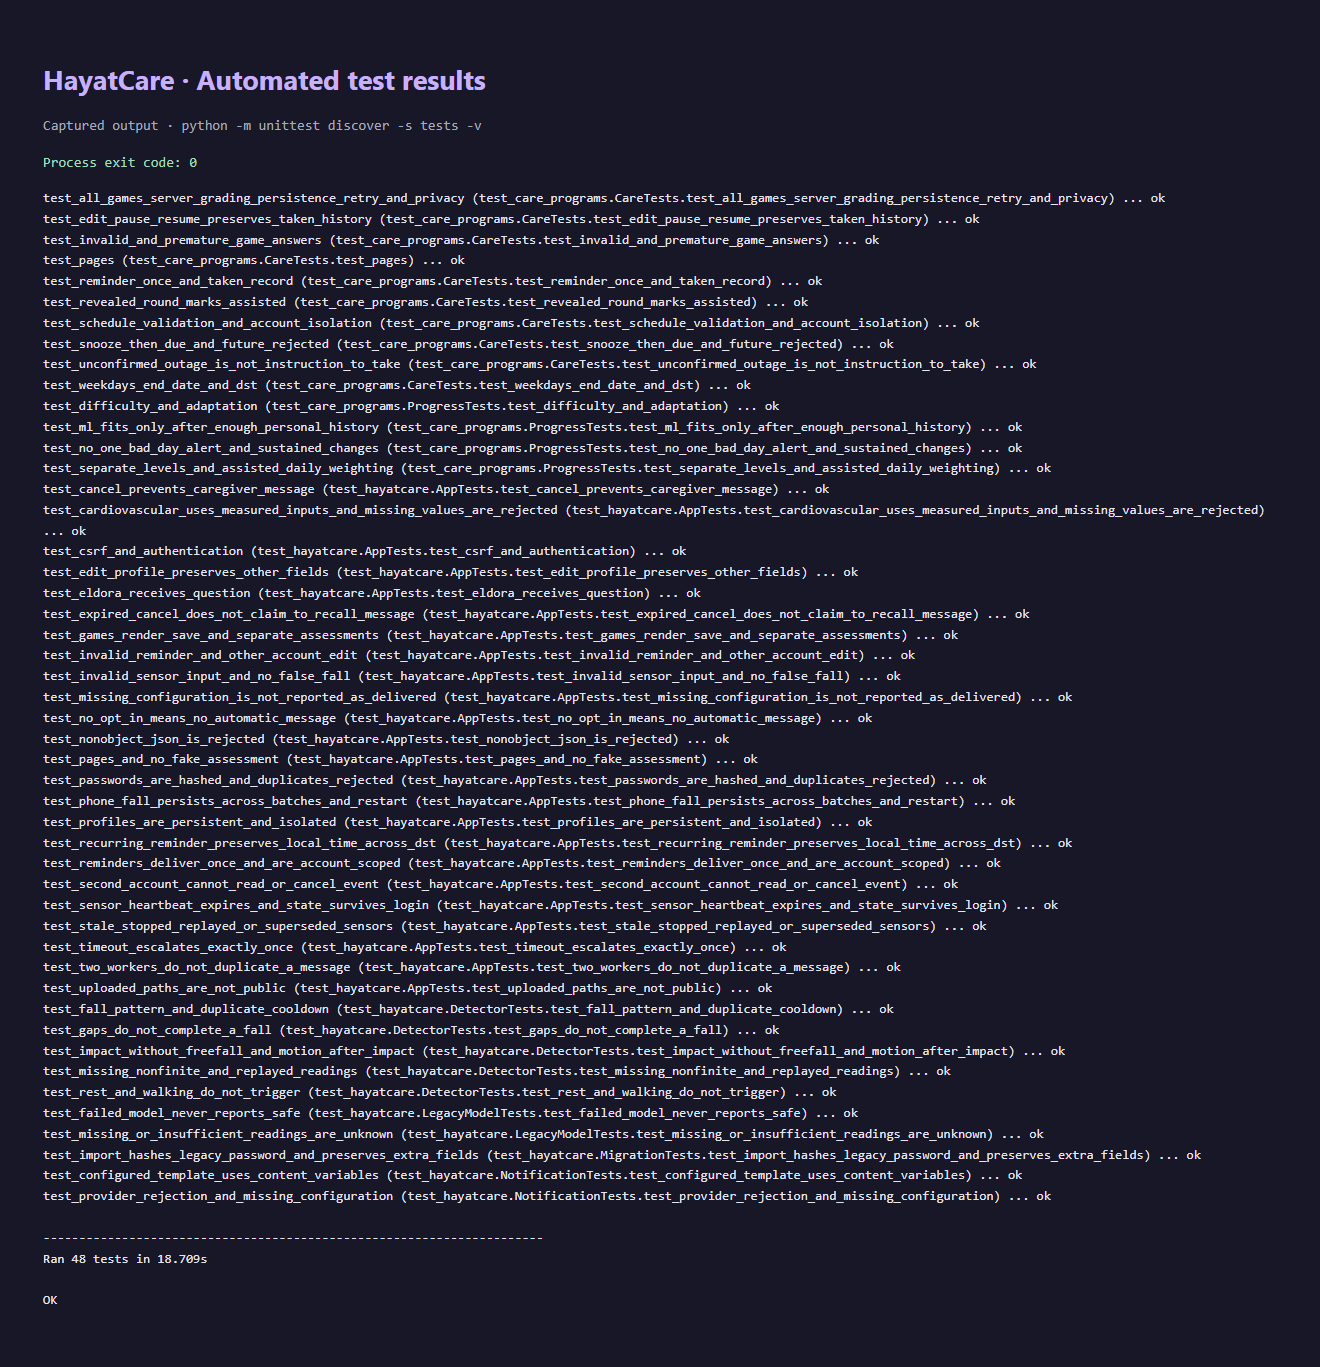
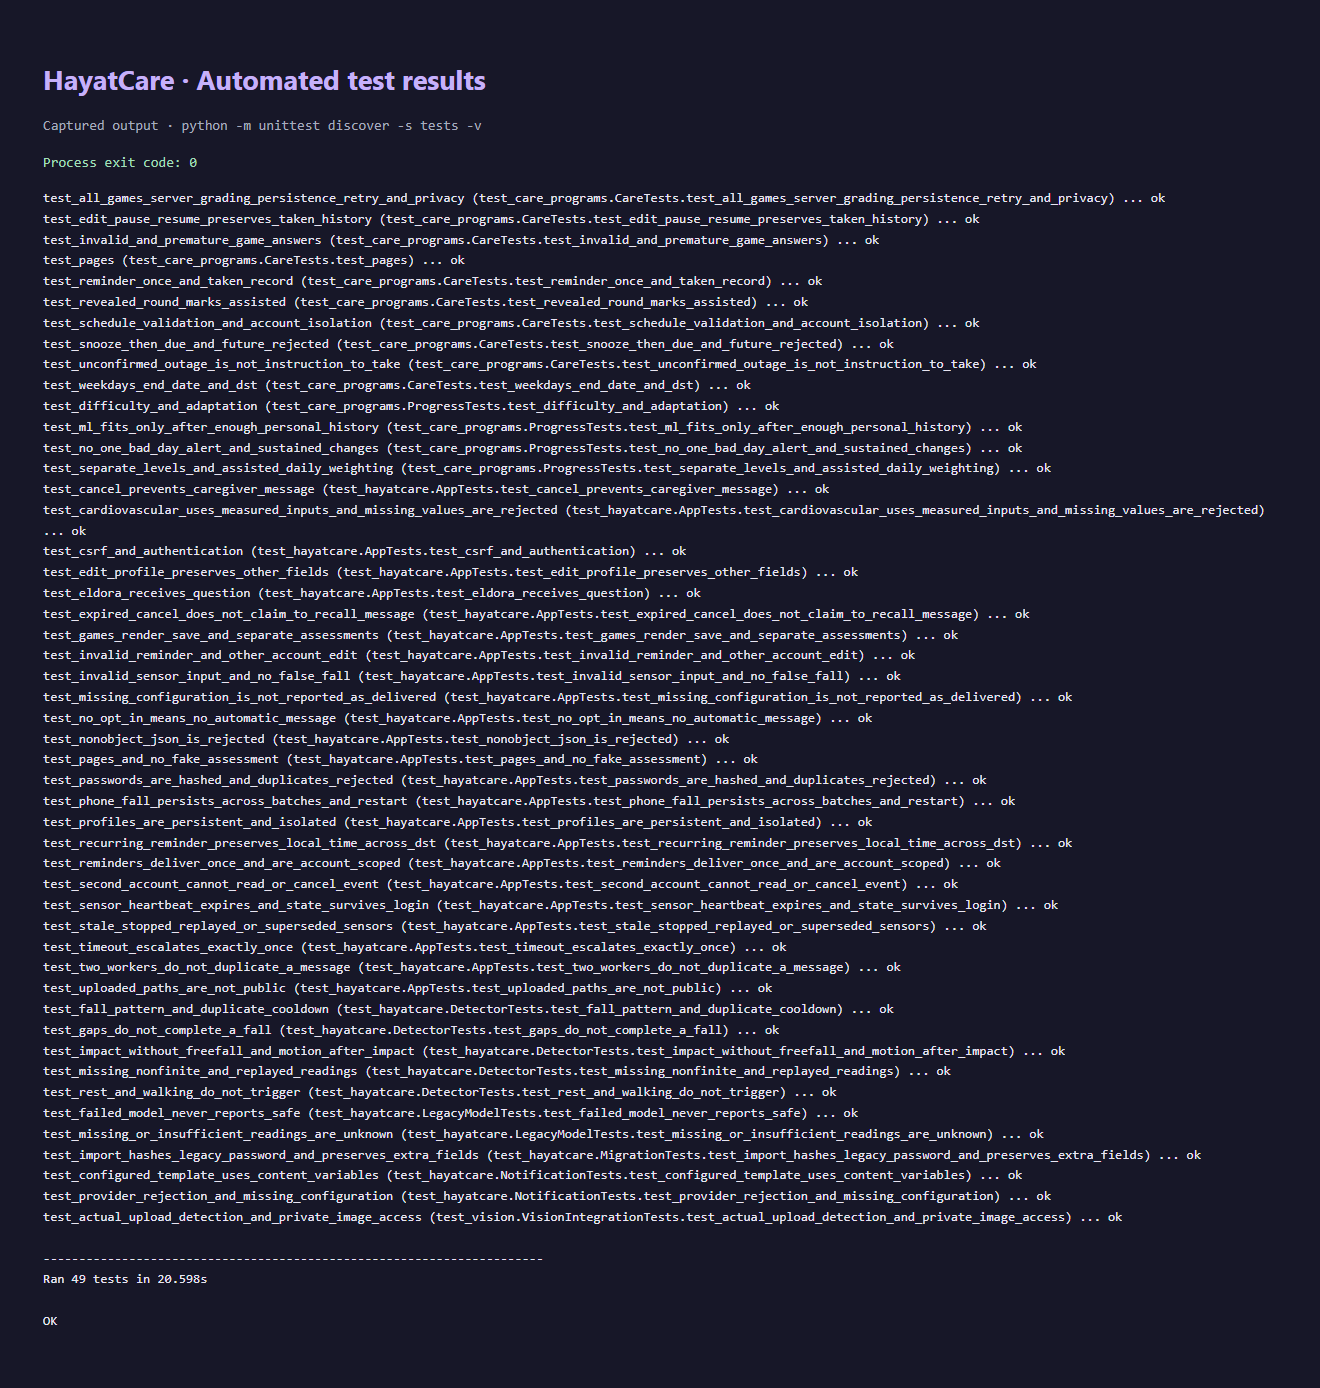
Show real YOLO detection and ML demo results with vision integration test

Changed region(s): [[0.0311, 0.0307, 0.9629, 0.9217], [0.1553, 0.0307, 0.3417, 0.0922]]

diff --git a/templates/index.html b/templates/index.html
@@ -601,28 +601,22 @@
         `;
     }
 
-    // Overlay bounding boxes for YOLO annotations
+    // The annotated image already contains boxes; avoid a second unscaled overlay.
     function updateAnnotatedImage(imageUrl, detections) {
-    const container = document.getElementById('annotated-image-container');
-    container.innerHTML = `
-        <div style="position: relative; display: inline-block;">
-            <img id="annotated-img" src="${imageUrl}" alt="Annotated room image" style="width: 100%; height: auto; display: block;">
-            ${detections && detections.length ? detections.map(det => {
-                const [x1, y1, x2, y2] = det.box;
-                return `
-                    <div class="annotation" style="
-                        left: ${x1}px;
-                        top: ${y1}px;
-                        width: ${x2 - x1}px;
-                        height: ${y2 - y1}px;
-                    ">
-                        <div class="annotation-label">${escapeHTML(det.name)}</div>
-                    </div>
-                `;
-            }).join('') : ''}
-        </div>
-    `;
-}
+        const container = document.getElementById('annotated-image-container');
+        container.replaceChildren();
+        const image = document.createElement('img');
+        image.id = 'annotated-img'; image.src = imageUrl;
+        image.alt = 'Your uploaded image with detected objects outlined';
+        image.style.cssText = 'width:100%;height:auto;display:block;border-radius:12px';
+        container.append(image);
+        const summary = document.createElement('p');
+        summary.style.cssText = 'padding:16px;background:#eee8fa;border-radius:12px;margin-top:15px';
+        summary.textContent = detections.length ? detections.map(d => d.name +
+            (typeof d.confidence === 'number' ? ' · '+Math.round(d.confidence*100)+'% confidence' : '')).join(' | ') :
+            'No objects were recognized with enough confidence. Try a clearer photo.';
+        container.append(summary);
+    }
 
     function displayRecommendations(text) {
         const recommendationsEl = document.getElementById('recommendations');

diff --git a/tests/test_vision.py b/tests/test_vision.py
@@ -1,0 +1,38 @@
+"""Optional real-model checks: install requirements-vision.txt and local YOLO weights."""
+import importlib.util
+import tempfile
+import unittest
+from unittest.mock import patch
+from pathlib import Path
+
+ROOT=Path(__file__).resolve().parents[1]
+AVAILABLE=importlib.util.find_spec('ultralytics') is not None and (ROOT/'yolov8n.pt').exists()
+
+@unittest.skipUnless(AVAILABLE,'Optional vision packages and local YOLO weights are required.')
+class VisionIntegrationTests(unittest.TestCase):
+    def test_actual_upload_detection_and_private_image_access(self):
+        with tempfile.TemporaryDirectory() as folder:
+            with patch.dict('os.environ',{'HAYATCARE_DATA_DIR':folder}):
+                from app import create_app
+            app=create_app({'TESTING':True,'MIGRATE_USERS':False,'CSRF_ENABLED':False,
+                            'DATABASE':str(Path(folder)/'test.sqlite3'),'UPLOAD_FOLDER':str(Path(folder)/'uploads')})
+            client=app.test_client()
+            with client.session_transaction() as session:session['username']='vision-demo'
+            # Existing public-facing project artwork, not a patient upload.
+            with (ROOT/'static/images/hero.jpg').open('rb') as image:
+                response=client.post('/upload-room-image',data={'room_name':'Demo','file':(image,'demo.jpg')})
+            self.assertEqual(response.status_code,200,response.json)
+            detections=response.json['annotations']
+            self.assertTrue(detections)
+            for item in detections:
+                self.assertGreater(item['confidence'],.5)
+                self.assertLessEqual(item['confidence'],1)
+                x1,y1,x2,y2=item['box']
+                self.assertGreater(x2,x1);self.assertGreater(y2,y1)
+            with client.get(response.json['annotated_image_url']) as downloaded:
+                self.assertEqual(downloaded.status_code,200)
+            other=app.test_client()
+            with other.session_transaction() as session:session['username']='another-demo'
+            self.assertEqual(other.get(response.json['annotated_image_url']).status_code,404)
+
+if __name__=='__main__':unittest.main()

diff --git a/app.py b/app.py
@@ -405,7 +405,8 @@ def create_app(config=None):
             detections, annotated = detect_objects_yolo_with_boxes(str(path), filename)
         except Exception:
             path.unlink(missing_ok=True)
-            return jsonify(error='Object detection unavailable. Install requirements-vision.txt and verify yolov8n.pt.'), 503
+            app.logger.exception('Room image analysis failed')
+            return jsonify(error='Image analysis is unavailable right now. Please try again later.'), 503
         profile = patient()
         house = profile.get('house', {})
         house[room] = [d['name'] for d in detections]

diff --git a/utils.py b/utils.py
@@ -31,7 +31,7 @@ def detect_objects_yolo_with_boxes(image_path, original_filename):
             continue
         label = model.names[int(box.cls[0])]
         coordinates = list(map(int, box.xyxy[0].tolist()))
-        detections.append({'name': label, 'box': coordinates})
+        detections.append({'name': label, 'box': coordinates, 'confidence': round(confidence,4)})
         x1, y1, x2, y2 = coordinates
         cv2.rectangle(image, (x1, y1), (x2, y2), (255, 165, 0), 2)
         cv2.putText(image, f'{label} {confidence:.2f}', (x1, max(20, y1-10)), cv2.FONT_HERSHEY_SIMPLEX, .6, (255,255,255), 2)

diff --git a/docs/SETUP.md b/docs/SETUP.md
@@ -83,6 +83,27 @@ Browser API references:
 
 ## External services
 
+### Optional YOLO image detection on CPU
+
+```powershell
+.\.venv\Scripts\python.exe -m pip install torch==2.6.0 torchvision==0.21.0 --index-url https://download.pytorch.org/whl/cpu
+.\.venv\Scripts\python.exe -m pip install -r requirements-vision.txt
+```
+
+Place the YOLOv8n weights at `yolov8n.pt` in the project root. Weights stay local
+and are excluded from Git. Open **Home safety → Add Room**, select an image,
+and choose **Upload & Analyze**. The app displays detected objects with bounding
+boxes and confidence scores above 50%.
+
+The optional real-model integration test exercises upload, inference, annotation,
+and account-specific access to the resulting image:
+
+```powershell
+.\.venv\Scripts\python.exe -m unittest discover -s tests -p test_vision.py -v
+```
+
+The test skips when the optional vision package or local weights are unavailable.
+
 Use `.env.example` as the settings reference. Do not overwrite an existing `.env`
 with empty example values.
 
@@ -201,8 +222,9 @@ model in this repository establishes a clinical diagnosis or treatment decision.
 ```
 
 Tests use temporary databases and fake messaging senders, never real caregivers.
-The updated suite passes 48 automated tests. The earlier environment repair also
-passed `pip check`.
+The updated suite passes 49 automated tests with the optional vision dependencies
+and weights installed, including real YOLO inference and image access isolation.
+`pip check` also passes.
 Coverage includes sensor gaps and invalid data, detector state across requests,
 cancellation/timeout, duplicate worker claims, account isolation, password
 migration, CSRF, timezone-aware recurring reminders, assessment saving, model

diff --git a/docs/SCREENSHOTS.md b/docs/SCREENSHOTS.md
@@ -33,9 +33,29 @@ The new demo account shows the starting view; performance history builds as acti
 
 <img src="screenshots/mobile-activities.png" alt="Brain activities on a mobile-sized screen" width="390">
 
+## YOLO deep-learning detection
+
+The image below shows **YOLOv8n running through HayatCare's upload-and-analyze flow**.
+The input is an existing demonstration image in the project, not a patient upload.
+Boxes and confidence scores come from the model's actual predictions, using a
+confidence threshold above 50%. The pretrained model recognizes object classes;
+these labels are not a complete home-safety assessment.
+
+![Actual YOLO detection inside HayatCare](screenshots/yolo-detection.png)
+
+[View the detected classes, bounding boxes, and confidence scores](screenshots/yolo-results.json).
+
+## Supervised ML example
+
+The cardiovascular pipeline was run with illustrative measurements entered through
+the app. This screenshot shows the model's actual output for those demo inputs,
+not a real person's health assessment.
+
+![Cardiovascular model output for demo inputs](screenshots/heart-model-demo.png)
+
 ## Automated tests
 
-**48 tests passed.** The image below renders the captured output of the Python test runner.
+**49 tests passed**, including a real YOLO upload-and-inference test. The image below renders the captured output of the Python test runner.
 Coverage includes activity scoring, personal progress, medication schedules, reminders,
 phone motion events, authentication, and account isolation.
 

diff --git a/README.md b/README.md
@@ -31,6 +31,10 @@ and a conversational assistant into one accessible web application.
 Built with **Python, Flask, SQLite, scikit-learn, NumPy, pandas, JavaScript**, and optional **Ultralytics YOLO**.
 The app supports everyday care and activity tracking; its insights are not medical diagnoses.
 
+![YOLOv8n detection inside HayatCare](docs/screenshots/yolo-detection.png)
+
+Actual detection on a project demo image. See [ML results and test evidence](docs/SCREENSHOTS.md#yolo-deep-learning-detection) for predictions and a cardiovascular-model example.
+
 ## Run locally
 
 ```powershell
